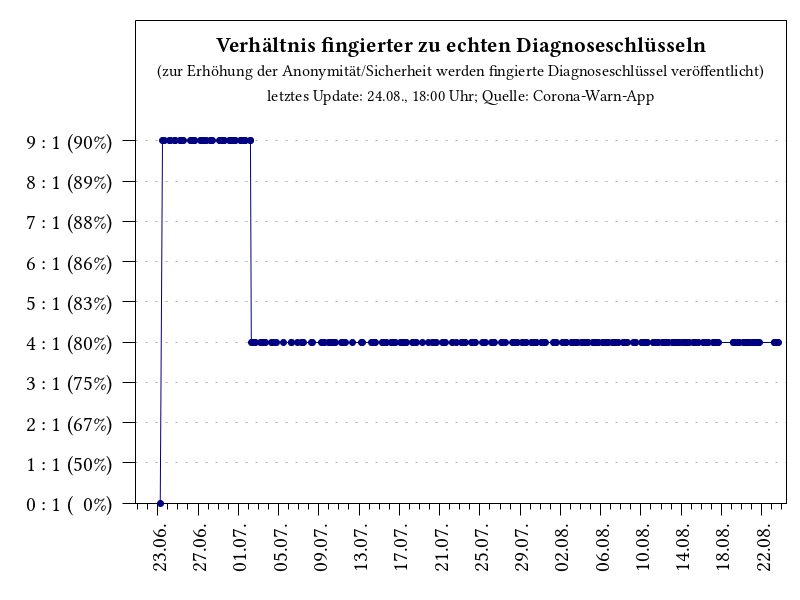
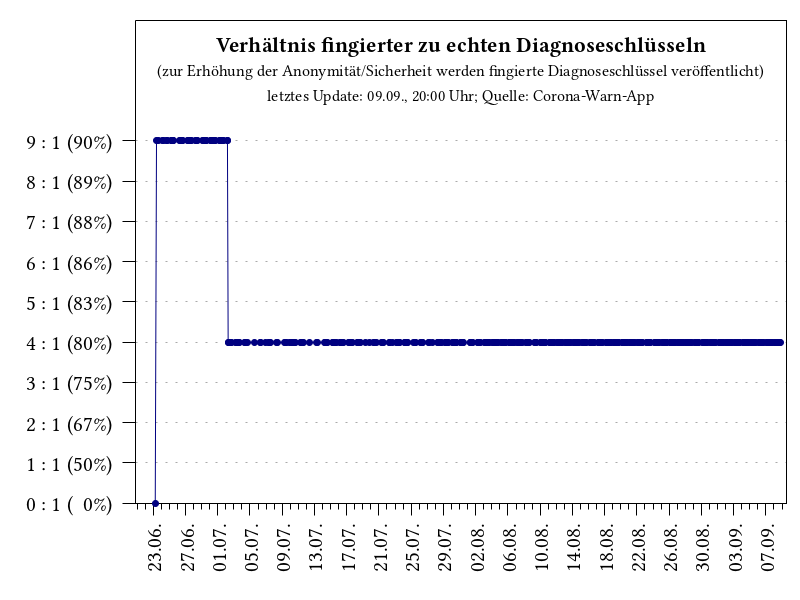
fixed missing update of padding multiplier diagram

diff --git a/scripts/CWA_TRL_multiplier.py b/scripts/CWA_TRL_multiplier.py
@@ -17,6 +17,7 @@ if __name__ == "__main__":
     # generate list of analyzed files
     pattern_date = re.compile(r"hourly_packages_([0-9]{4})-([0-9]{2})-([0-9]{2}).json") 
     pattern_multiplier = re.compile(r"Padding Multiplier detected: ([0-9]{1,})")
+    pattern_mult_man   = re.compile(r"Length: ([0-9]{1,}) keys \(([0-9]{1,}) without padding\)")
     
     # results
     data_array = []
@@ -51,12 +52,22 @@ if __name__ == "__main__":
 
                         # find regular expression
                         pm = pattern_multiplier.findall(package_data)
+                        
                         if ( len(pm) != 1 ):
-                            continue
+                            
+                            # calculate multiplier
+                            pm2 = pattern_mult_man.findall(package_data)
+                            if ( len(pm2) != 1 ):
+                                continue
+                            
+                            pad_mult = int( int(pm2[0][0]) / int(pm2[0][1]) )
+                            
+                        else:
+                            pad_mult = int(pm[0])
                         
                         # add multiplier
                         timestamp = int(datetime.datetime(year=int(pd[0][0]), month=int(pd[0][1]), day=int(pd[0][2]), hour=hour).strftime("%s"))
-                        data_array.append( [ timestamp, int(pm[0])] )                        
+                        data_array.append( [ timestamp, pad_mult ] )                        
                     
     # sort data by timestamp
     sorted_data = sorted(data_array, key=lambda t: t[0])
